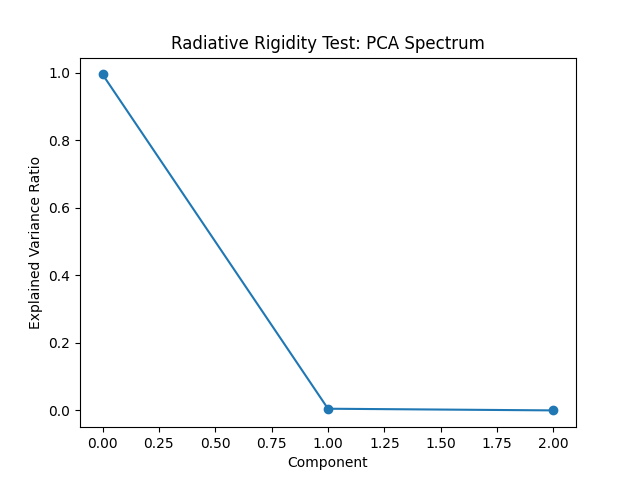
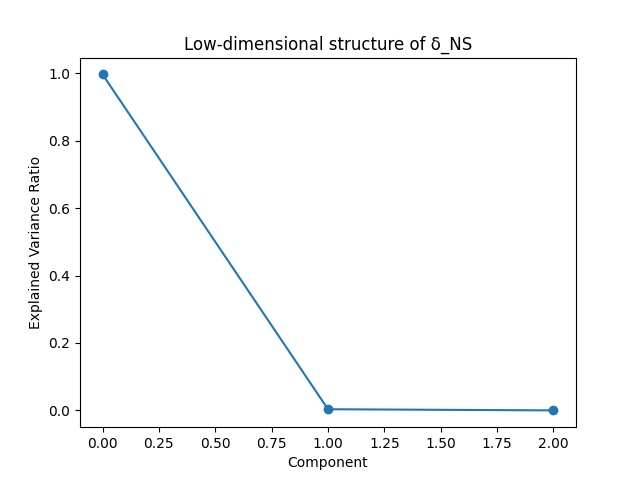
Finalize empirical dataset and PCA (low-dimensional structure)

diff --git a/src/pca_radiative_rigidity.py b/src/pca_radiative_rigidity.py
@@ -21,7 +21,7 @@ print(pca.explained_variance_ratio_)
 # Plot spectrum
 plt.figure()
 plt.plot(pca.explained_variance_ratio_, marker='o')
-plt.title("Radiative Rigidity Test: PCA Spectrum")
+plt.title("Low-dimensional structure of δ_NS")
 plt.xlabel("Component")
 plt.ylabel("Explained Variance Ratio")
 plt.savefig("figures/pca_spectrum.png")
